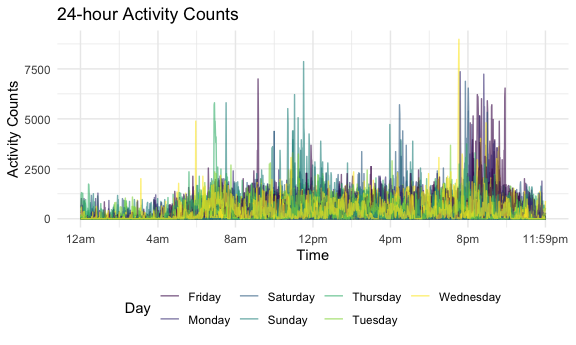
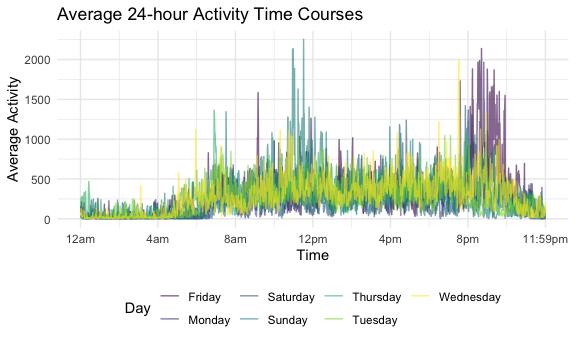
final version of hw3

diff --git a/p8105_hw3_ly2565.md b/p8105_hw3_ly2565.md
@@ -92,9 +92,10 @@ instacart %>%
 ```
 
 <img src="p8105_hw3_ly2565_files/figure-gfm/unnamed-chunk-3-1.png" width="90%" />
-\* From this plot, we can clearly see that fresh vegetables and fresh
-fruits are the two most popular aisles. And they are the only two aisles
-with over 100000 items ordered.
+
+-   From this plot, we can clearly see that fresh vegetables and fresh
+    fruits are the two most popular aisles. And they are the only two
+    aisles with over 100000 items ordered.
 
 #### Make a table showing the three most popular items in each of the aisles “baking ingredients”, “dog food care”, and “packaged vegetables fruits”:
 
@@ -105,25 +106,22 @@ instacart %>%
   summarize(n_items = n()) %>% 
   mutate(product_rank = min_rank(desc(n_items))) %>% 
   filter(product_rank < 4) %>% 
-  group_by(aisle) %>% 
-  arrange(-n_items) %>% 
+  arrange(aisle, product_rank) %>% 
   select(-product_rank) %>% 
   knitr::kable()
 ```
 
-    ## `summarise()` has grouped output by 'aisle'. You can override using the `.groups` argument.
-
 | aisle                      | product\_name                                   | n\_items |
 |:---------------------------|:------------------------------------------------|---------:|
-| packaged vegetables fruits | Organic Baby Spinach                            |     3324 |
-| packaged vegetables fruits | Organic Raspberries                             |     1920 |
-| packaged vegetables fruits | Organic Blueberries                             |     1692 |
 | baking ingredients         | Light Brown Sugar                               |      157 |
 | baking ingredients         | Pure Baking Soda                                |      140 |
 | baking ingredients         | Organic Vanilla Extract                         |      122 |
 | dog food care              | Organix Grain Free Chicken & Vegetable Dog Food |       14 |
 | dog food care              | Organix Chicken & Brown Rice Recipe             |       13 |
 | dog food care              | Original Dry Dog                                |        9 |
+| packaged vegetables fruits | Organic Baby Spinach                            |     3324 |
+| packaged vegetables fruits | Organic Raspberries                             |     1920 |
+| packaged vegetables fruits | Organic Blueberries                             |     1692 |
 
 -   In the `baking ingredients` aisle, the three most popular items are
     light brown sugar, pure baking soda, and organic vanilla extract;
@@ -143,12 +141,8 @@ mean_hour_dow =
   pivot_wider(
     names_from = order_dow,
     values_from = mean_hour
-  )  
-```
-
-    ## `summarise()` has grouped output by 'product_name'. You can override using the `.groups` argument.
-
-``` r
+  ) 
+  
 colnames(mean_hour_dow) = c("", "Sun", "Mon", "Tue", "Wed", "Thu", "Fri", "Sat")
 mean_hour_dow %>% 
   knitr::kable()
@@ -203,6 +197,9 @@ brfss_df
     ## #   topic_id <chr>, location_id <chr>, question_id <chr>, respid <chr>,
     ## #   geo_location <chr>
 
+-   This data set has 10625 rows and 23 columns, focusing on the overall
+    health topic from 2002 to 2010.
+
 ## Some questions related to the data set.
 
 #### In 2002, which states were observed at 7 or more locations? What about in 2010:
@@ -241,11 +238,6 @@ excellent_df =
   filter(response == "Excellent") %>% 
   group_by(year, state) %>% 
   summarize(data_value_mean = mean(data_value, na.rm = TRUE))
-```
-
-    ## `summarise()` has grouped output by 'year'. You can override using the `.groups` argument.
-
-``` r
 excellent_df
 ```
 
@@ -273,7 +265,7 @@ excellent_df
 ``` r
 excellent_df %>% 
   ggplot(aes(x = year, y = data_value_mean, group = state, color = state)) +
-  geom_line(aes(group = state), alpha = 0.8) +
+  geom_line(alpha = 0.8) +
   labs(
     title = "Average Data Values Over Time",
     x = "Year",
@@ -285,17 +277,18 @@ excellent_df %>%
 
 <img src="p8105_hw3_ly2565_files/figure-gfm/unnamed-chunk-9-1.png" width="90%" />
 
--   comments?
+-   The plot shows that average data values of all states fluctuate from
+    2002 to 2010. Overall, there is a slight decreasing trend.
 
 #### Make a two-panel plot showing, for the years 2006, and 2010, distribution of data\_value for responses (“Poor” to “Excellent”) among locations in NY State:
 
 ``` r
 brfss_df %>% 
-  filter(year == 2006 | year == 2010, state == "NY") %>% 
+  filter(year %in% c(2006, 2010), state == "NY") %>% 
   ggplot(aes(x = response, y = data_value)) +
   geom_boxplot() +
   labs(
-    title = "Distribution of Data Values in NY State",
+    title = "Distribution of Data Values for Responses in NY State",
     x = "Response",
     y = "Data Values"
   ) +
@@ -303,9 +296,10 @@ brfss_df %>%
 ```
 
 <img src="p8105_hw3_ly2565_files/figure-gfm/unnamed-chunk-10-1.png" width="90%" />
-\* From the plot, we can see that data values for positive
-responses(excellent, very good, good) were greater than those for fair
-and poor responses in both 2006 and 2010.
+
+-   From the plot, we can see that data values for positive
+    responses(excellent, very good, good) were greater than those for
+    fair and poor responses in both 2006 and 2010.
 
 # Problem 3
 
@@ -377,8 +371,6 @@ accelerometer_df %>%
   knitr::kable()
 ```
 
-    ## `summarise()` has grouped output by 'week'. You can override using the `.groups` argument.
-
 | week |    Monday |  Tuesday | Wednesday | Thursday |   Friday | Saturday | Sunday |
 |-----:|----------:|---------:|----------:|---------:|---------:|---------:|-------:|
 |    1 |  78828.07 | 307094.2 |    340115 | 355923.6 | 480542.6 |   376254 | 631105 |
@@ -396,12 +388,14 @@ accelerometer_df %>%
 
 ``` r
 accelerometer_df %>% 
-  ggplot(aes(x = minute, y = activity_count, color = day, group = day_id)) +
+  group_by(day, minute) %>% 
+  summarize(avg_activity = mean(activity_count)) %>% 
+  ggplot(aes(x = minute, y = avg_activity, color = day)) +
   geom_line(alpha = 0.6) + 
   labs(
-    title = "24-hour Activity Counts",
+    title = "Average 24-hour Activity Time Courses",
     x = "Time",
-    y = "Activity Counts",
+    y = "Average Activity",
     color = "Day"
   ) +
   scale_x_continuous(
@@ -412,7 +406,10 @@ accelerometer_df %>%
 ```
 
 <img src="p8105_hw3_ly2565_files/figure-gfm/unnamed-chunk-13-1.png" width="90%" />
-\* From the plot, we can see that activity counts tend to be higher in 3
-periods of time on each day: 6am-12pm, 4pm-6pm, and 8pm-10pm(especially
-on Wed and Fri); activity counts tend to be lower from 10pm-6pm each day
-which may be the sleeping period.
+
+-   From the plot, we can see that of the 5 weeks, the average activity
+    counts of each day tend to be lower from 10pm to 6am which may be
+    the sleeping period; the average activity tend to be higher in 3
+    periods of time on each day: 6am-12pm, 4pm-6pm, and 8pm-10pm.
+    Especially on Fridays, this man was much more active from 8pm to
+    10pm, and on Sundays, he was much more active from 10am-12pm.
